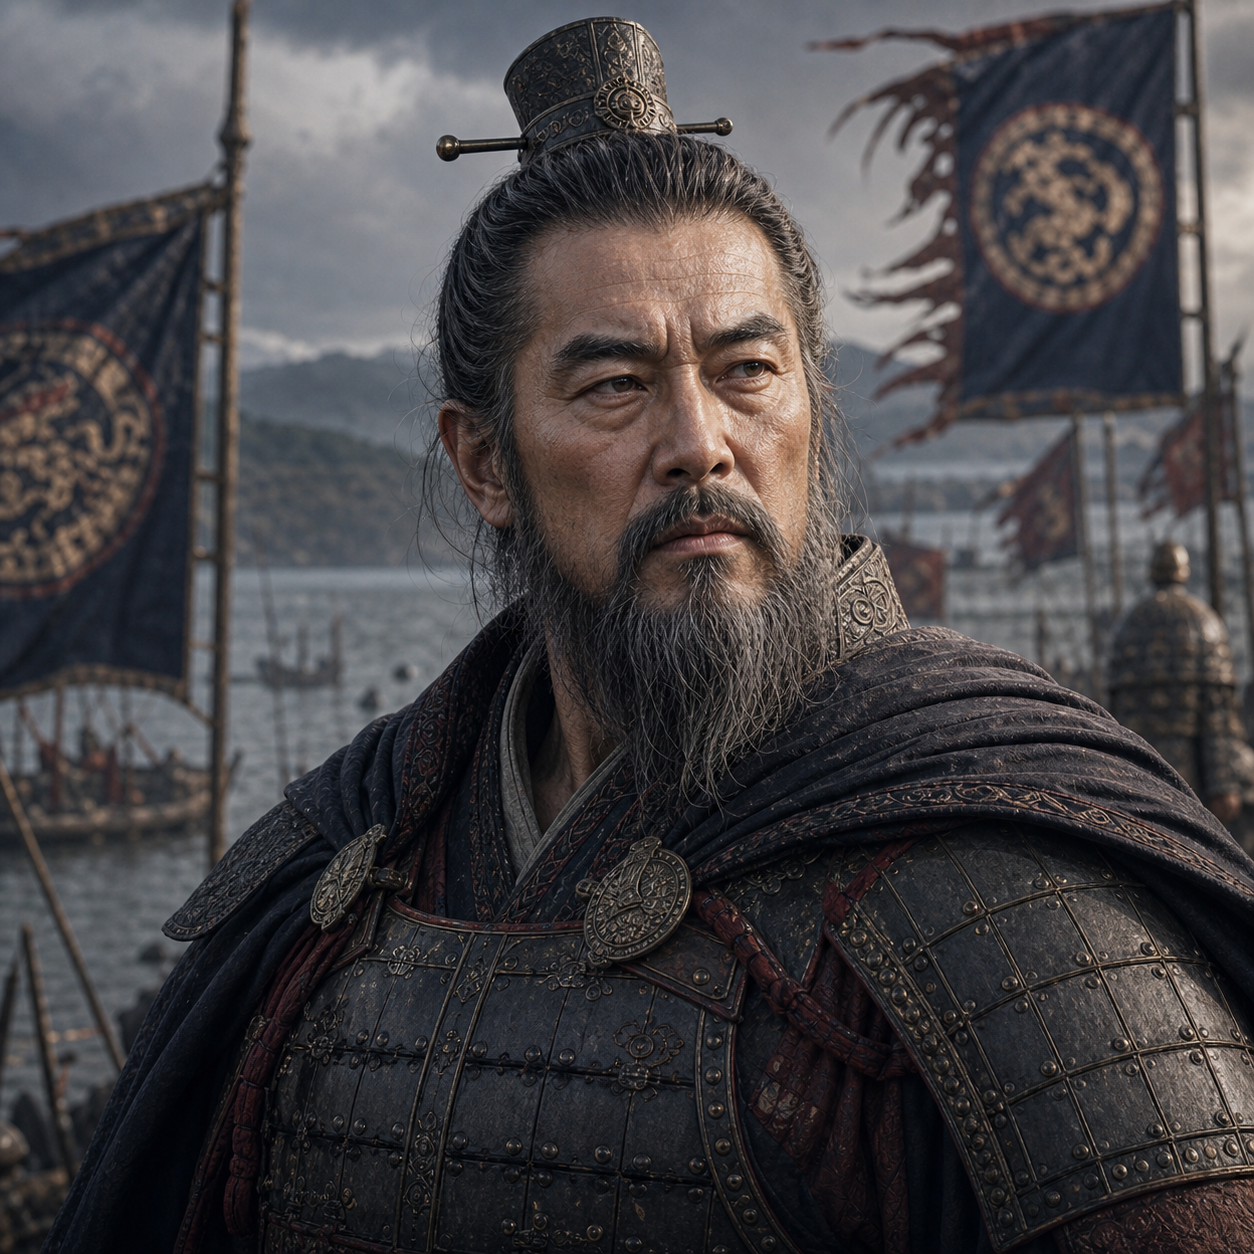
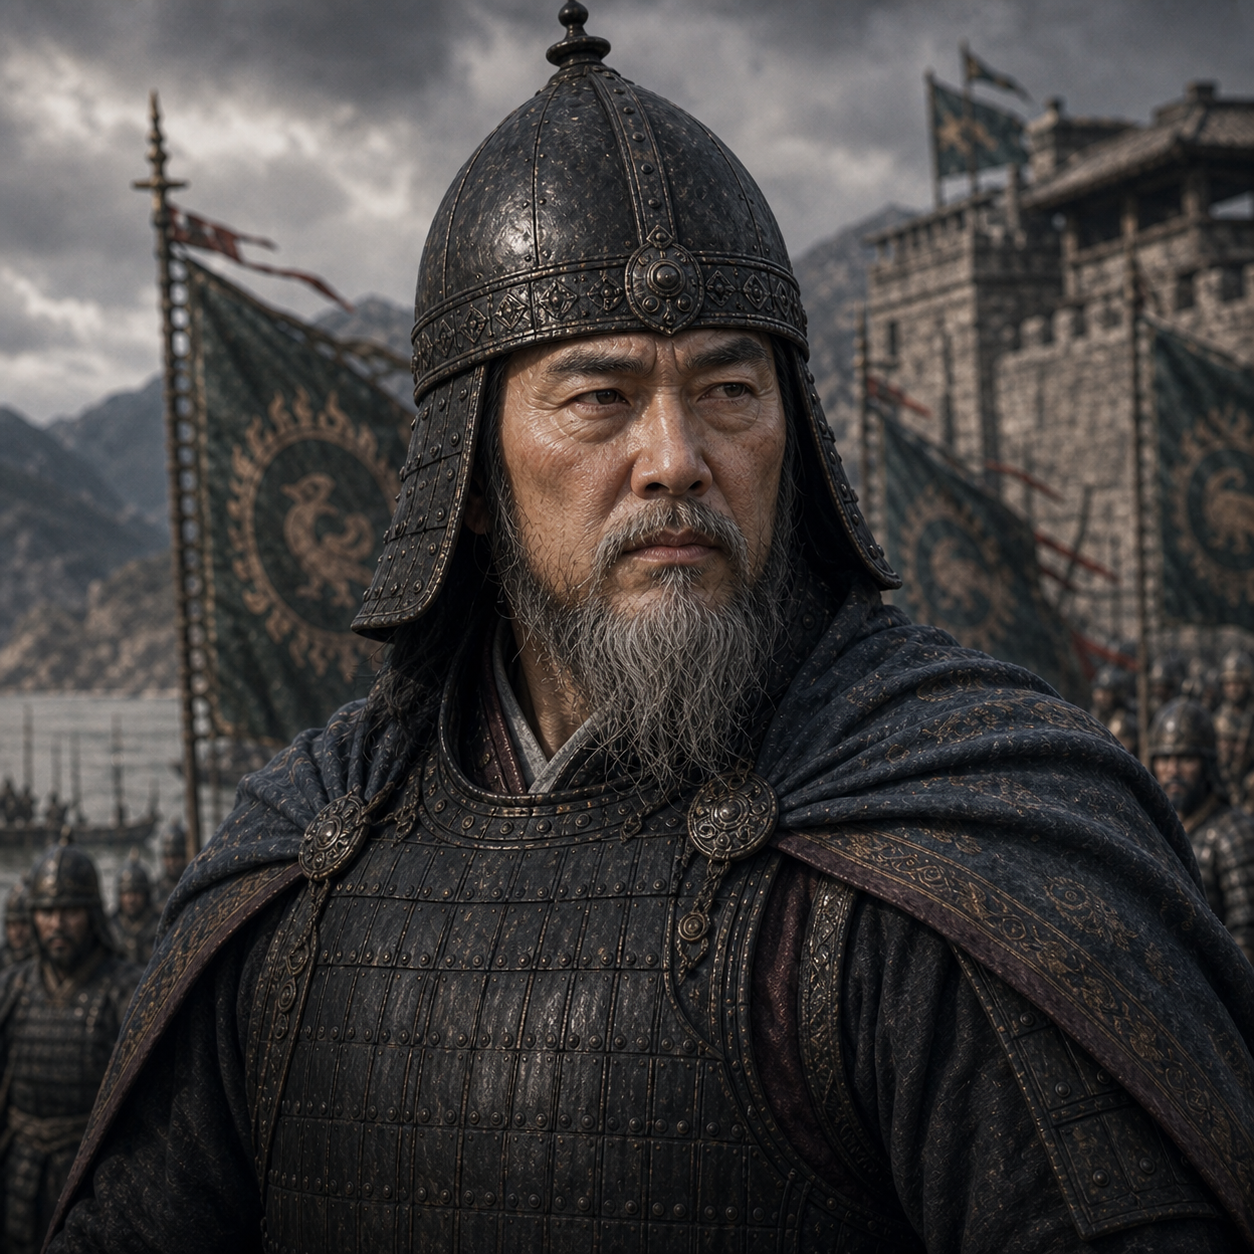
feat: STOP 시 유닛 애니메이션 즉시 정지 및 한국 장수 초상화/기병 스프라이트 갱신
- formation.speed === STOP 이면 실제 유닛 속도와 무관하게 애니메이션 즉시 정지
  (Pixi/Canvas 렌더 경로 모두 적용)
- 기병 스프라이트 소스를 cavity_*.png 로 교체 및 신규 방향별 파일 추가
- 한국 장수 초상화 10종 리디자인 (강감찬, 계백, 김유신 등)

diff --git a/web/app.js b/web/app.js
@@ -119,8 +119,8 @@ import { initRng, random as seededRandom, resetRng } from './src/prng.js';
       allowedSkills: ["kihap"],
       allowedDensities: ["NORMAL", "WIDE"],
       walkFrames: 6,
-      sourceHeight: 25,
-      renderScale: tileW => tileW / 24,
+      sourceHeight: 160,
+      renderScale: tileW => tileW / 160,
       spacingMult: 1.55,
       collisionMult: 1.8,
     },
@@ -891,19 +891,18 @@ import { initRng, random as seededRandom, resetRng } from './src/prng.js';
   unitWalkSprite.src = './assets/units/ancient_infantry_helmet_walk.png';
   const unitWalkBlueSprite = new Image();
   unitWalkBlueSprite.src = './assets/units/ancient_infantry_helmet_walk_blue.png';
+  const CAVALRY_DIRECTION_SOURCES = {
+    E:  ['./assets/units/cavity_SE.png'],
+    NE: ['./assets/units/cavity_NE.png'],
+    N:  ['./assets/units/cavity_N.png'],
+    S:  ['./assets/units/cavity_S.png'],
+    SE: ['./assets/units/cavity_SE.png'],
+  };
   const CAVALRY_PLAYER_DIRECTION_SOURCE_CANDIDATES = {
-    E:  ['./assets/units/ancient_cavity_helmet_walk_E.png'],
-    NE: ['./assets/units/ancient_cavity_helmet_walk_NE.png'],
-    N:  ['./assets/units/ancient_cavity_helmet_walk_N.png'],
-    S:  ['./assets/units/ancient_cavity_helmet_walk_S.png'],
-    SE: ['./assets/units/ancient_cavity_helmet_walk_SE.png'],
+    ...CAVALRY_DIRECTION_SOURCES,
   };
   const CAVALRY_ENEMY_DIRECTION_SOURCE_CANDIDATES = {
-    E:  ['./assets/units/ancient_cavity_helmet_walk_blue_E.png'],
-    NE: ['./assets/units/ancient_cavity_helmet_walk_blue_NE.png'],
-    N:  ['./assets/units/ancient_cavity_helmet_walk_blue_N.png'],
-    S:  ['./assets/units/ancient_cavity_helmet_walk_blue_S.png'],
-    SE: ['./assets/units/ancient_cavity_helmet_walk_blue_SE.png'],
+    ...CAVALRY_DIRECTION_SOURCES,
   };
   const CAVALRY_DIRECTION_SOURCE_KEY = {
     E: 'E',
@@ -945,7 +944,7 @@ import { initRng, random as seededRandom, resetRng } from './src/prng.js';
       .map(([direction, sources]) => [direction, createImageWithFallbacks(sources)])
   );
   const cavalryWalkSprite = new Image();
-  cavalryWalkSprite.src = './assets/units/ancient_cavity_helmet_walk_E.png';
+  cavalryWalkSprite.src = './assets/units/cavity_SE.png';
   const cavalryWalkBlueSprite = createImageWithFallbacks(CAVALRY_ENEMY_DIRECTION_SOURCE_CANDIDATES.E);
   const cavalryWalkBackSprite = createImageWithFallbacks(CAVALRY_PLAYER_DIRECTION_SOURCE_CANDIDATES.N);
   const cavalryWalkBackBlueSprite = createImageWithFallbacks(CAVALRY_ENEMY_DIRECTION_SOURCE_CANDIDATES.N);
@@ -5081,7 +5080,7 @@ import { initRng, random as seededRandom, resetRng } from './src/prng.js';
       }
 
       const visualFacing = updateUnitVisualFacing(formation, unit);
-      const moving = visualFacing.moving;
+      const moving = visualFacing.moving && formation.speed !== "STOP";
       const facingBack = visualFacing.facingBack;
       const cavalryDirection = troopType === 'cavalry'
         ? cavalryDirectionInfo(visualFacing.direction)
@@ -5730,7 +5729,7 @@ import { initRng, random as seededRandom, resetRng } from './src/prng.js';
       const { troopType, drawW, drawH } = metrics;
 
       const visualFacing = updateUnitVisualFacing(formation, unit);
-      const isMoving = visualFacing.moving;
+      const isMoving = visualFacing.moving && formation.speed !== "STOP";
       const isFacingBack = visualFacing.facingBack;
       const frameCount = externalUnitLoaded ? troopWalkFrames(troopType) : 2;
       const frameIdx = isMoving ? Math.floor(game.battleTime * 7 + unit.chaosPhaseOffset * 3) % frameCount : 0;
